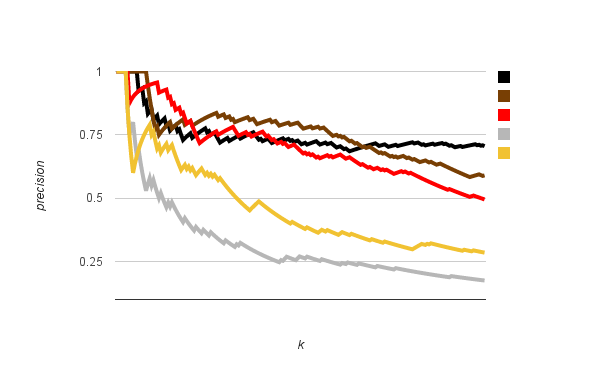
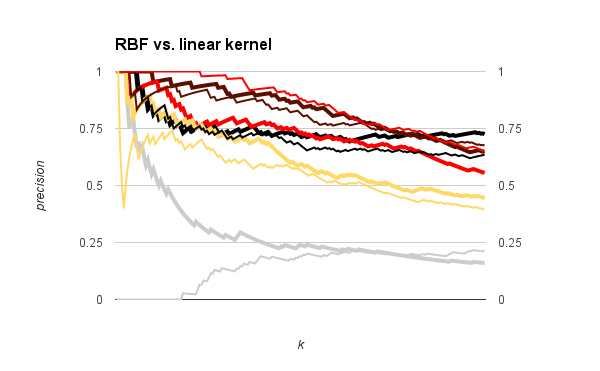
update README

diff --git a/README.md b/README.md
@@ -32,9 +32,6 @@ Bags image/text description used for this demo program can be found at http://ww
 
         ./demo ../../bags result.html 200
 
-Here is an expected result for top 5 queries of the five color attributes: black, brown, red, silver, gold, associated with their meta data ([rank]: score):
-![results](images/bags_5x5_5cv.png)
-
 ## Overview of the program
 1. Mining the image color tag to six different category: black, brown, red, silver, gold, and unknown, for the entire image set using the text description of each image
 2. Separating the dataset to training and test set based on the mining results: The images associated with color tags are in the training set, the rest of images are in the testing set.
@@ -49,19 +46,18 @@ Here is an expected result for top 5 queries of the five color attributes: black
 The sigma is important to the radial basis function (RBF) kernel (as the formula shown above).
 The sigma can be determined using cross-validation.
 This program performed a 5-fold cross-validation.
-Without choosing an optimal sigma properly, for example, with a abitary sigma=3, the system still retrieved reasonable result, such as:
-![results](images/bags_5x5.png)
 
-Yet, the result is far as good as the expected one.
-For instance, the first column for the black attribute has some silver color purses.
-Moreover, the fourth column for the silver attribute has a white bag, a red bag, and a brown bag.
-This artifact might cased by the "background" of these three images are silver.
-Having these artifacts in the top 5 lists is not good.
-Cross-validation helps to improve the result.
+Here is the result for top 5 queries of the five color attributes: black, brown, red, silver, gold, associated with their meta data ([rank]: score) using RBF Kernel with a 5-fold cross-validation:
+
+-> ![results](images/RBF_bags_cv.png) <-
+
+-> **Top five lists from the RBF SVM with 5-fold cross-validation** <-
 
 I searched 20 `sigma`s, from 2^-10 to 2^9. 
 The classification results did not change for `sigma` equals to 2^-10 to 2^-2.
 Here is the classification error in percentage table of the five different labels (only shows `sigma` from 2^-1 to 2^9)
+
+**5-fold cross-validation error rates for the RBF SVM**
 
 | log`sigma` | black | brown  | red    | silver  | gold 
 | ---------- |:-----:|:------:|:------:|:-------:|:----:
@@ -78,15 +74,64 @@ Here is the classification error in percentage table of the five different label
 | 9          | 53.6  | 69.8   | 69.2   | 68.8    | 67.6
 | Best log`sigma`| 1 | 4      | 5      | 4       | 3
 
+
+
 The classification error seems high.
 I chose the `sigma` with the lowest error rate for each classifier.
 Yet when I look at the output result, the ranking seems pretty reasonable.
 
+Without choosing an optimal sigma properly, for example, with a abitary sigma=3, the system still retrieved reasonable result, such as:
+
+-> ![results](images/RBF_bags.png) <-
+
+-> **Top five lists from the RBF SVM with `sigma=3`** <-
+
+Yet, the result is far as good as the expected one.
+For instance, the first column for the black attribute has some silver color purses.
+Moreover, the fourth column for the silver attribute has a white bag, a red bag, and a brown bag.
+This artifact might cased by the background of these three images are gray, very is very similar to silver.
+Having these artifacts in the top 5 lists is not good.
+Cross-validation helps to improve the result.
+
+Using linear kernel without cross-validation is another choice.
+It performs well on nonmetal colors, but has troubles on metal colors as well.
+There is even no a single silver image in the top five list retrieved from the linear SVM classifier for silver color.
+Here is the result of using linear SVM:
+
+-> ![results](images/linear_bags.png) <-
+
+-> **Top five lists from the linear SVM** <-
+
 
 ### Precision vs. number of query
-![precision](images/precision.png)
-
-This curve shows how much the top `k` queries are relevant (positive) to the color attribute.
+The precision curve shows how much the top `k` queries are relevant (positive) to the color attribute.
 Since we don't have ground truth labeling for the test data, I judged the result pretty subjectively.
-The precision drops when increasing the query number.
+
+![RBF precision](images/RBF_precision.png)
+The first figure of the precision curves is for the classifiers using the 5-fold cross-validation on RBF kernel.
+The precision drops when increasing the query number `k`.
 Metal colors, such as silver and gold, dropped significant faster than the the nonmetal colors.
+The silver is even worse due because many bag images have gray background, which is pretty similar to silver in the H-S domain.
+
+![Linear precision](images/linear_precision.png)
+The second figure of the precision curves is for the linear SVM.
+The precision drops when increasing the query number `k`.
+Metal colors, such as silver and gold, dropped significant faster than the the nonmetal colors.
+The silver is too bad on this case.
+Probably the cases with gray background ruined the linear SVM.
+
+![precision](images/precision.png)
+Let's try to overlap the two figures.
+The bolder curves are from the RBF figure and the thiner curves are from the linear figure.
+
+For the black and brown colors, there is no significant different between the two curves when `k` is small.
+When `k` is larger than 100, SVM with RBF kernel performed better than the linear kernel.
+
+For the red color, SVM with linear kernel performed much better than the the RBF kernel.
+Based on my observation from the retrieval result, the SVM with RBF kernel rank bags with red pattens, such as stripes or followers, on the top.
+But I would not consider those are "red bags".
+On the other hand, linear SVM rank bags with pure colors on the top.
+Even though some of them are not "pure red" (e.g. pink), as a shopper, I consider those bags are more closed to what I want.
+
+Both SVM performed bad in the metal color cases.
+One reason might be I only implemented the HS color histogram, and metal colors typically have lighten appearance.
